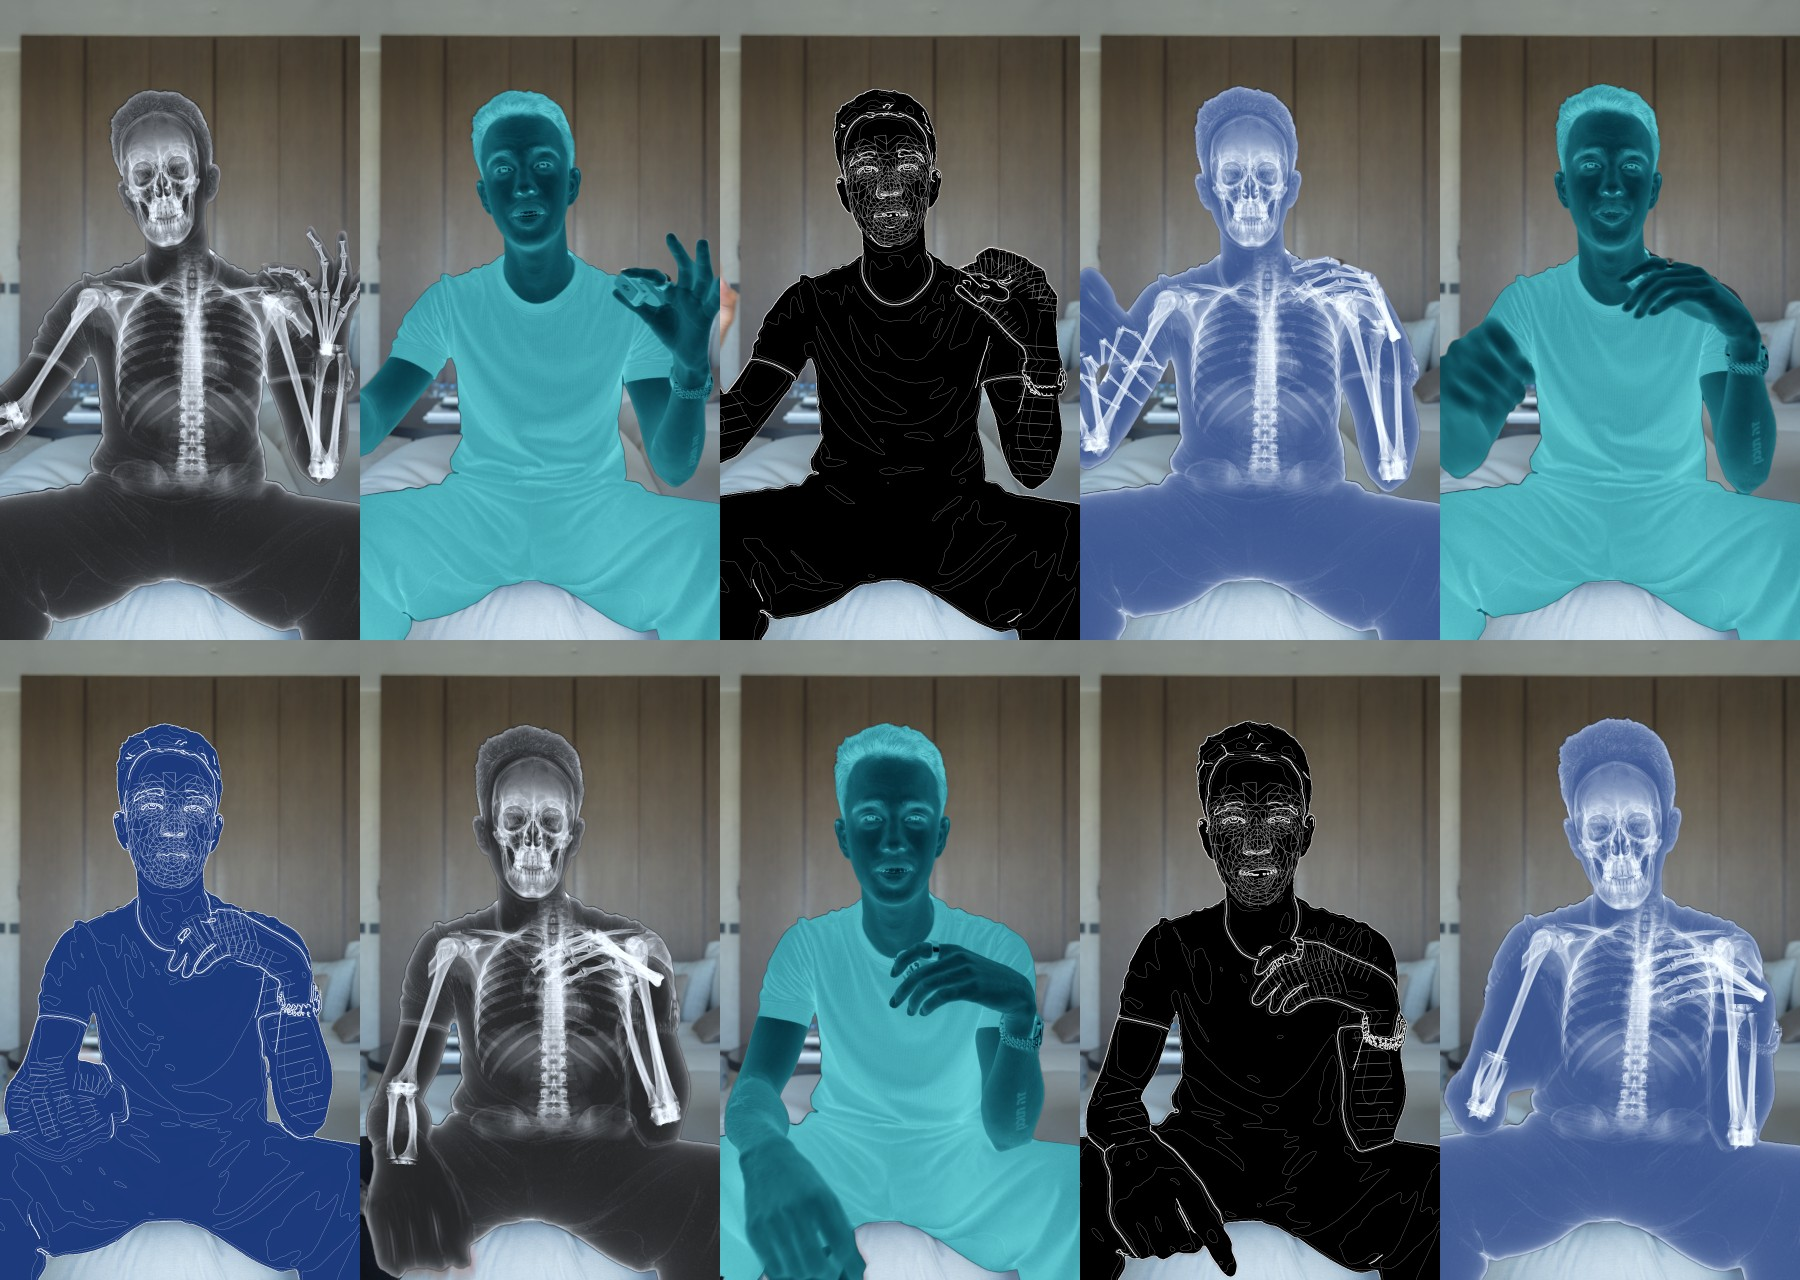
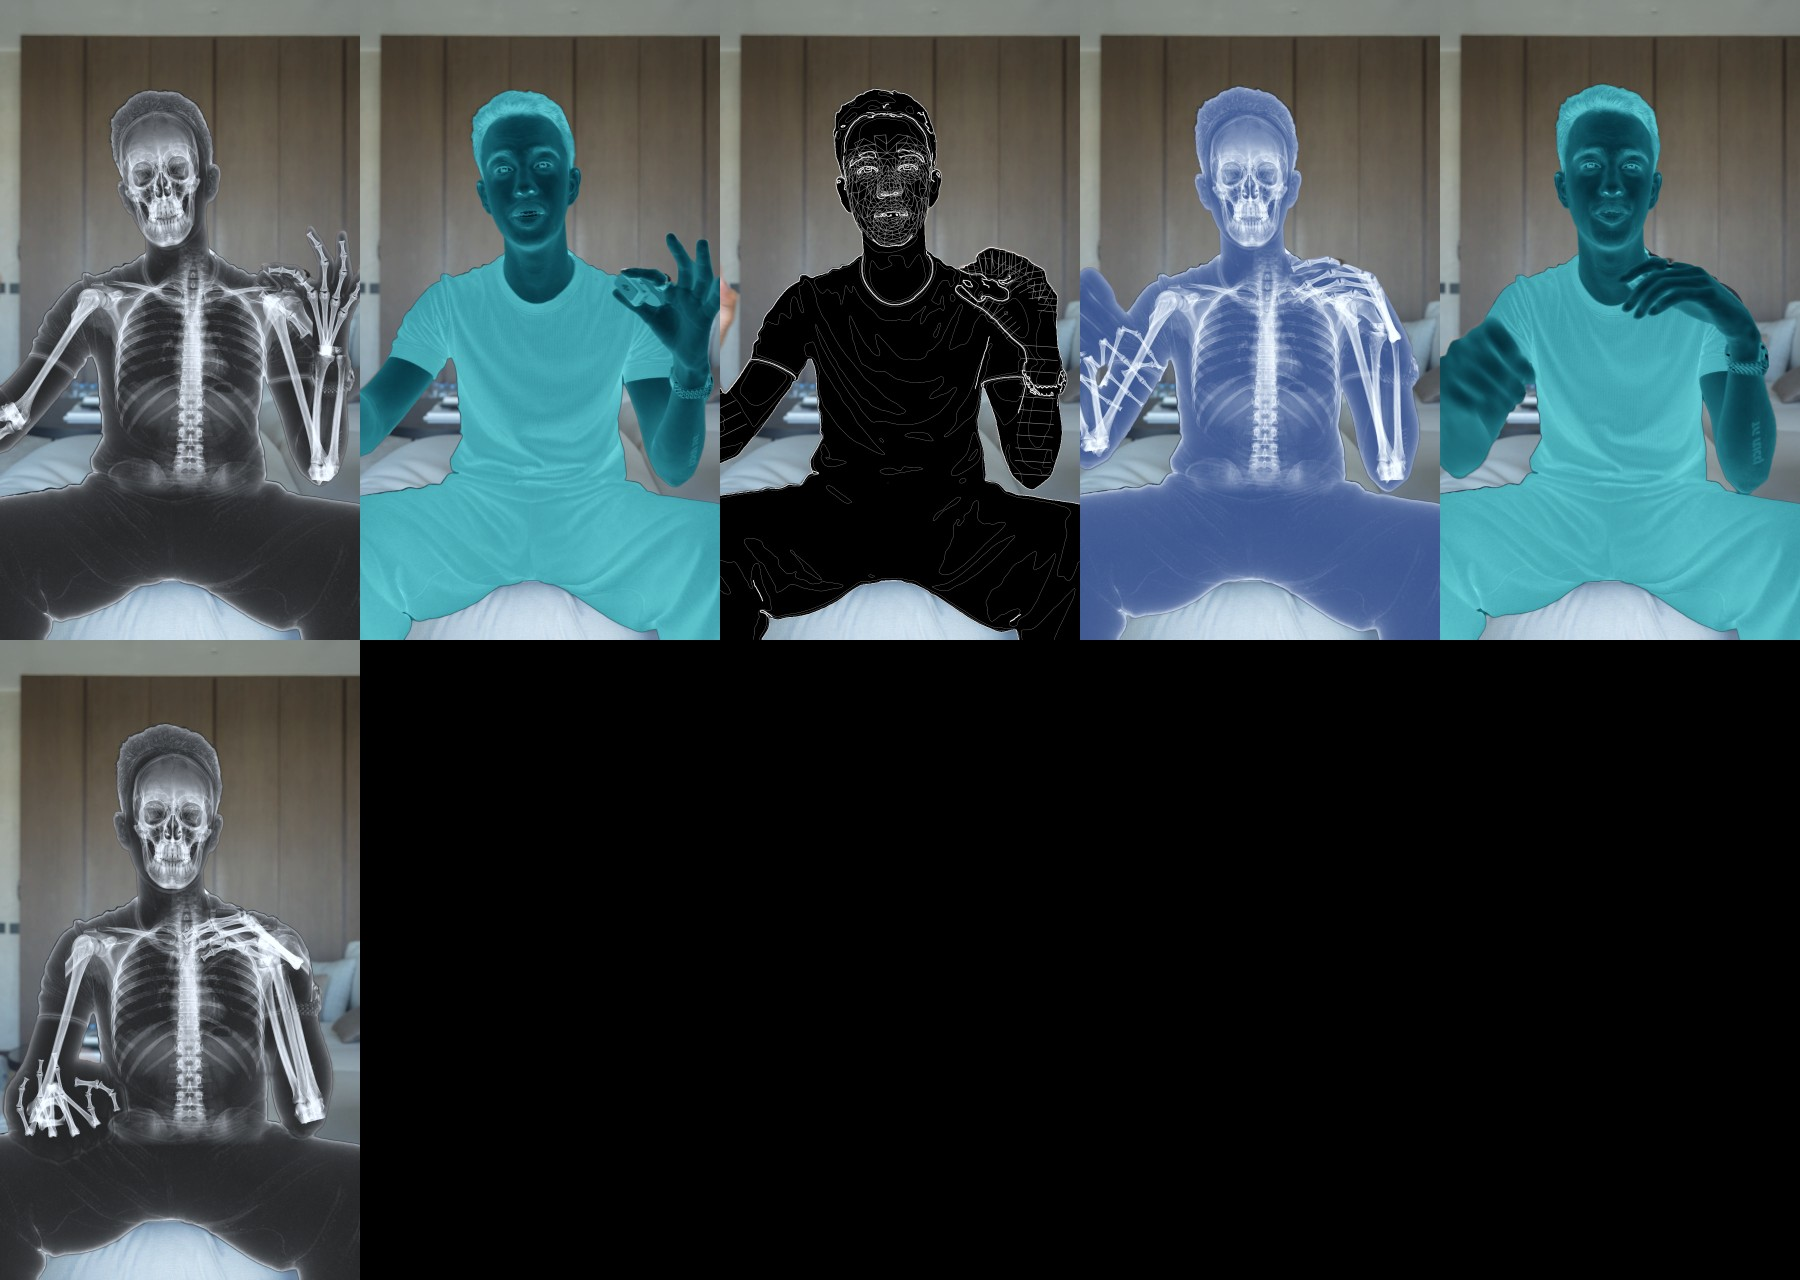
Faster flicker: six flashes, one frame on and one frame off

diff --git a/xray.py b/xray.py
@@ -1,9 +1,9 @@
 #!/usr/bin/env python3
 """The x-ray flicker on your own talking head clip.
 
-Ten flashes in 0.8 seconds, each a new look on the person only: an x-ray, a cyan negative or a white line drawing, on
-black or your colour. The room never changes. The camera accelerates in and lands right after the last flash, holds, then
-eases back. Everything runs on this computer: ready-made x-ray parts (parts/) are fitted to the body by MediaPipe's
+Six flashes, one frame on and one frame off, each a new look on the person only: an x-ray, a cyan negative or a white line
+drawing, on black or your colour. The room never changes. The camera accelerates in and lands right after the last flash,
+holds, then eases back. Everything runs on this computer: ready-made x-ray parts (parts/) are fitted to the body by MediaPipe's
 free tracking on every flash, so the skeleton stays on the pose and no image model or API key is needed.
 
 Run it through run.py, which sets everything up first:  python3 run.py my-clip.mp4 --start 0
@@ -15,11 +15,9 @@ import cv2, numpy as np, imageio_ffmpeg, mediapipe as mp
 from mediapipe.tasks.python import BaseOptions, vision as V
 
 # =========================== THE LOOK (defaults are the approved look; times are seconds) ============================
-RUN_FPS = 24                # the flicker is timed on a 24 fps grid at every frame rate
-FIRST_FLASH = 2             # the first flash lands on grid frame 2 after --start
-FLASH_STEP = 2              # then one flash on every second grid frame: as fast as a flicker can go
-LOOKS = ["xray", "neg", "wire", "xray_colour", "neg", "wire_colour", "xray", "neg", "wire", "xray_colour"]
-LAND = 21                   # the camera lands on grid frame 21
+FLICKER_FPS = 30            # one flicker step is one frame of the clip; clips above this rate use whole-number multiples (60 fps: 2 frames)
+FIRST_FLASH = 2             # the first flash lands on step 2 after --start
+LOOKS = ["xray", "neg", "wire", "xray_colour", "neg", "xray"]   # one flash on, one step off, for each of these
 PUNCH = 1.5                 # how far the camera goes in
 ACCEL = 2.6                 # the push accelerates: progress ** 2.6, in log space, so it hits hard at the end
 HOLD = 0.95                 # seconds held after landing, creeping 3 % so the frame is never dead
@@ -342,9 +340,8 @@ def out_curve(u):
     return (2 * f**3 - 3 * f**2 + 1) * p[i] + (f**3 - 2 * f**2 + f) * m(i) + (-2 * f**3 + 3 * f**2) * p[i + 1] + (f**3 - f**2) * m(i + 1)
 
 
-def zoom_at(t, punch):
-    """t = seconds after --start. Scale moves in log space, so equal steps read as equal zoom."""
-    t0, land = FIRST_FLASH / RUN_FPS, LAND / RUN_FPS
+def zoom_at(t, punch, t0, land):
+    """t = seconds after --start; t0 = the first flash, land = just after the last. Scale moves in log space, so equal steps read as equal zoom."""
     if t < t0:
         return 1.0
     if t < land:
@@ -388,17 +385,20 @@ def main():
     fps, rate, seconds, hdr = probe(clip)
     vf = decode_filter(rate, hdr)
     W, H = clip_size(clip, vf)
-    run = (FIRST_FLASH + FLASH_STEP * len(LOOKS)) / RUN_FPS
+    step = max(1, int(round(fps / FLICKER_FPS)))    # frames per flicker step, always a whole number so the on/off rhythm stays even
+    first_flash = FIRST_FLASH * step
+    land_at = (FIRST_FLASH + 2 * (len(LOOKS) - 1) + 1) * step
+    run = land_at / fps
     if seconds is not None and a.start + run > seconds:
         die(f"the effect needs {run:.1f} s from --start {a.start:g}, and the clip is {seconds:.1f} s long")
     print(f"Clip: {W}x{H}, {fps:.3f} fps" + (f", {seconds:.1f} s" if seconds else ""), flush=True)
 
-    # which look lands on which frame of this clip's frame rate
-    spans = [(a.start + (FIRST_FLASH + FLASH_STEP * k) / RUN_FPS, a.start + (FIRST_FLASH + FLASH_STEP * k + 1) / RUN_FPS, look) for k, look in enumerate(LOOKS)]
+    # which look lands on which frame: one step on, one step off
+    start_frame = int(np.ceil(a.start * fps - 1e-6))
     look_of = {}
-    for t0, t1, look in spans:
-        for n in range(int(np.ceil(t0 * fps - 1e-6)), max(int(np.ceil(t0 * fps - 1e-6)) + 1, int(np.ceil(t1 * fps - 1e-6)))):
-            look_of[n] = look
+    for k, look in enumerate(LOOKS):
+        for j in range(step):
+            look_of[start_frame + first_flash + 2 * step * k + j] = look
     margin = max(3, int(round(fps / 8)))
     first, last = min(look_of) - margin, max(look_of) + margin
 
@@ -458,7 +458,7 @@ def main():
     count = 0
     for n, fr in enumerate(frames(clip, vf, (W, H))):
         pic = flashes.get(n, fr)
-        z = zoom_at(n / fps - a.start, punch) if punch > 1 else 1.0
+        z = zoom_at((n - start_frame) / fps, punch, first_flash / fps, land_at / fps) if punch > 1 else 1.0
         enc.stdin.write(apply_zoom(pic, z, anchor).tobytes())
         count = n + 1
     enc.stdin.close()

diff --git a/AGENTS.md b/AGENTS.md
@@ -49,10 +49,10 @@ COLOUR: [#1C3A7C]
 
 ## How it should look
 
-Ten flashes in 0.8 seconds, on every second frame of a 24 fps grid, starting two frames after --start: x-ray, cyan
-negative, line drawing, x-ray on colour, cyan negative, line drawing on colour, x-ray, cyan negative, line drawing, x-ray
-on colour. The camera accelerates from the whole frame into the nose bridge and lands right after the last flash (up to
-1.5x, less if the head would leave the frame), creeps 3 % for 0.95 s, then eases back over 0.9 s.
+Six flashes, one frame on and one frame off (clips above 30 fps use a whole-number multiple, so 60 fps is two frames),
+starting two steps after --start: x-ray, cyan negative, line drawing, x-ray on colour, cyan negative, x-ray. That's about
+half a second at 24 fps. The camera accelerates from the whole frame into the nose bridge and lands right after the last
+flash (up to 1.5x, less if the head would leave the frame), creeps 3 % for 0.95 s, then eases back over 0.9 s.
 
 ## What it needs
 

diff --git a/CLAUDE.md b/CLAUDE.md
@@ -49,10 +49,10 @@ COLOUR: [#1C3A7C]
 
 ## How it should look
 
-Ten flashes in 0.8 seconds, on every second frame of a 24 fps grid, starting two frames after --start: x-ray, cyan
-negative, line drawing, x-ray on colour, cyan negative, line drawing on colour, x-ray, cyan negative, line drawing, x-ray
-on colour. The camera accelerates from the whole frame into the nose bridge and lands right after the last flash (up to
-1.5x, less if the head would leave the frame), creeps 3 % for 0.95 s, then eases back over 0.9 s.
+Six flashes, one frame on and one frame off (clips above 30 fps use a whole-number multiple, so 60 fps is two frames),
+starting two steps after --start: x-ray, cyan negative, line drawing, x-ray on colour, cyan negative, x-ray. That's about
+half a second at 24 fps. The camera accelerates from the whole frame into the nose bridge and lands right after the last
+flash (up to 1.5x, less if the head would leave the frame), creeps 3 % for 0.95 s, then eases back over 0.9 s.
 
 ## What it needs
 
